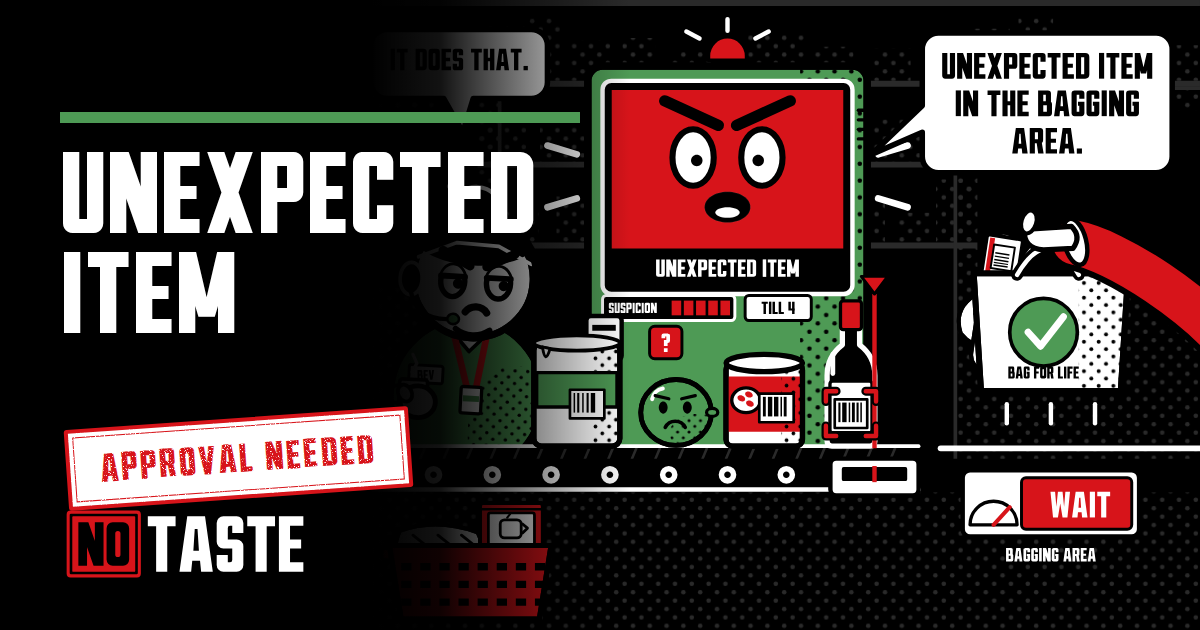
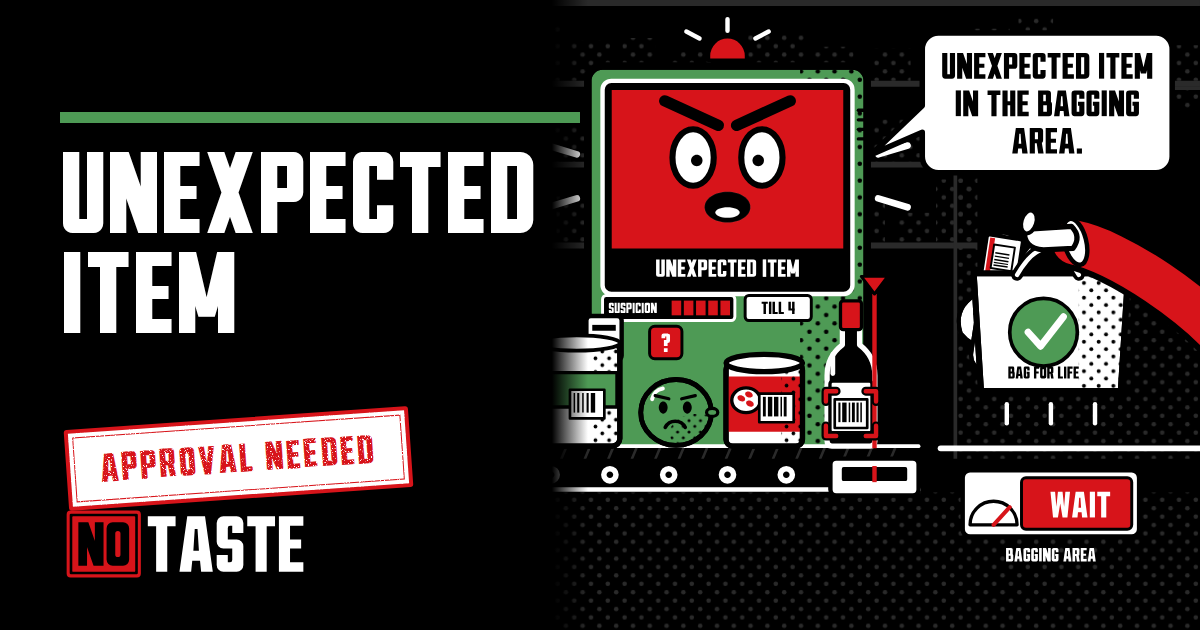
Unexpected Item: perfect streaks, readable bubbles, a share image without Bev
The streak is now perfect scans in a row, and a perfect scan is worth 200,
so the score follows how well you scan rather than how few you miss. Scans
that aren't perfect make the machine a little more suspicious. Scan like
you mean it pays a third more for perfect scans.

Every line anyone says fits two lines on a 375px phone (and on a 320px one,
where a long line of Dennis's comes in over the blank side of his screen).
The bag's arrow no longer rises with the bag onto what's in your hand, and
its words match how you play. The till's name plate sits before the red
line. The share image drops Bev and her bubble from under the headline.
DESIGN.md: the false alarm, the ladder, the ways of shopping, and the
layout rules that changed.

Claude-Session: https://claude.ai/code/session_01Phqp5Sct2fBuhmAQCcMgAG

Changed region(s): [[0.37, 0.1206, 0.5242, 0.9952], [0.37, 0.0302, 0.4625, 0.181], [0.37, 0.3619, 0.4008, 0.3921]]

diff --git a/public/games/unexpected-item/unexpected-item.js b/public/games/unexpected-item/unexpected-item.js
@@ -66,13 +66,13 @@
 // does, like letting an item go round again, changes what the next shop
 // deals. What the machine and Bev say is left to chance.
 //
-// SCORING. Each item scanned: 100, plus 150 for a perfect scan, plus a streak
-// bonus (10 a scan in a row, up to 200; a miss, something going round again,
-// wrong fruit or an accusation starts it again, and it carries from shop to
-// shop). Bagging: 10. Fruit picked right: 150, plus up to 100 for being
-// quick. Each shop paid for: 20 a second left on the clock, and 500 for a
-// clean record (nobody accused you). If the shop shuts before you've paid,
-// the run is over.
+// SCORING. Each item scanned: 100, plus 200 for a perfect scan, plus a streak
+// bonus for perfect scans in a row (15 for each one before it, up to 300;
+// anything less than perfect, a miss, something going round again, wrong
+// fruit or an accusation starts it again, and it carries from shop to shop).
+// Bagging: 10. Fruit picked right: 150, plus up to 100 for being quick. Each
+// shop paid for: 20 a second left on the clock, and 500 for a clean record
+// (nobody accused you). If the shop shuts before you've paid, the run is over.
 //
 // THE LADDER (DESIGN.md, section 6). Approved: every shop paid for, at least
 // 17,500 points, and accused no more than once (the basket's false alarm).
@@ -113,7 +113,11 @@
   var SUS_MISS = 12, SUS_ROUND = 8, SUS_WRONG = 24, SUS_GUESS = 16;
   var SUS_DRAIN = 0.5;        // a second, in the first three shops: it doesn't forget quickly
   var SUS_EDGE = 1.6;         // a second, up, on Christmas Eve
-  var SUS_PERFECT = 9, SUS_GOOD = 2, SUS_AFTER = 25;
+  var SUS_PERFECT = 8;        // down, for a perfect scan
+  var SUS_GOOD = 2;           // up, for one that wasn't: it saw you fumble
+  var SUS_AFTER = 25;         // where it's left after an accusation is sorted
+  var PERFECT_PTS = 200;      // on top of 100 for any scan
+  var STREAK_PTS = 15, STREAK_CAP = 20;   // a perfect scan in a row: 15 more for each before it, up to 20
   var ALARM_FROM = 20;        // suspicion over this, and the scale saying OK may set it off...
   var ALARM_MAX = 0.65;       // ...this likely when it's full
   var FIRST_ALARM = 2;        // the basket's false alarm comes after this many things are bagged
@@ -147,7 +151,7 @@
       sets: [], fruit: 0, age: [], heavy: [],
       brief: "Scan each item as its barcode crosses the red line. Then bag it, but only when the scale says OK.",
       clear: "One basket. The machine has opened a file on you.",
-      hello: "Welcome. Please scan your first item. I'm watching." },
+      hello: "Scan your first item. I'm watching." },
     { name: "A trolley", count: 10, belt: 12.5, gap: [12, 22], time: 52, walk: 5, pool: "trolley",
       sets: ["lime", "onion", "apple", "potato", "banana"], fruit: 3, age: [], heavy: [],
       brief: "Loose fruit has no barcode. The belt stops and the till asks what it is: pick the matching picture before it guesses.",
@@ -162,7 +166,7 @@
       sets: ["sprout", "potato", "apple"], fruit: 2, age: ["crackers", "candle"], heavy: ["turkey"],
       brief: "The machine is on edge: its suspicion rises on its own, and only perfect scans calm it down. The shop shuts early.",
       clear: "",
-      hello: "Merry Christmas. Please scan your first item. Slowly." }
+      hello: "Merry Christmas. Scan it slowly." }
   ];
 
   // Ways of shopping, picked between stages. Something good, something bad,
@@ -176,8 +180,8 @@
       apply: function (m) { m.walk *= 0.45; m.chat += 1.6; } },
     { id: "glasses", label: "Wear your reading glasses", detail: "The machine waits twice as long before guessing your fruit. The belt runs a bit faster.",
       apply: function (m) { m.lookup *= 2; m.belt *= 1.1; } },
-    { id: "mean", label: "Scan like you mean it", detail: "Perfect scans score half as much again. Anything less than perfect looks suspicious.",
-      apply: function (m) { m.perfect *= 1.5; m.goodSus += 8; } },
+    { id: "mean", label: "Scan like you mean it", detail: "Perfect scans score a third more. Anything less than perfect looks very suspicious.",
+      apply: function (m) { m.perfect *= 4 / 3; m.goodSus += 6; } },
     { id: "quiet", label: "Come back when it's quieter", detail: "Fifteen more seconds before the shop shuts, though they don't score. Bev's on her break, so she takes longer.",
       apply: function (m) { m.time += 15; m.walk *= 1.4; } },
     { id: "wave", label: "Wave at the camera", detail: "Suspicion wears off three times as fast. Every item scores a tenth less.",
@@ -194,31 +198,31 @@
   // ---------------------------------------------------------------------------
   var SAY = {
     scanned: ["Thank you.", "Noted.", "Item accepted. You are pending.", "Good. Suspiciously good.", "Beep. That's me being polite."],
-    streak: ["Five in a row. What are you hiding.", "Very smooth. Too smooth.", "Nobody's this good at scanning. Nobody honest."],
+    streak: ["Five in a row. What are you hiding.", "Very smooth. Too smooth.", "Nobody scans like that. Nobody honest."],
     missed: ["I didn't see a barcode.", "That was the belt.", "Please scan the item, not the air.", "Scanning nothing is suspicious.", "Was that a barcode. No."],
     fruitMiss: ["Fruit and veg have no barcode. Wait.", "No barcode on that. Hold on."],
-    holding: ["Please place the item in the bagging area.", "Bag that one first.", "One thing at a time. I'm watching both."],
+    holding: ["Place the item in the bagging area.", "Bag that one first.", "One thing at a time. I'm watching both."],
     round: ["That one's going round again.", "Have you scanned your item.", "It'll be back. They always come back."],
     accuse: "Unexpected item in the bagging area.",
-    accuseWatch: ["I've seen enough. Unexpected item.", "I've been watching you. Unexpected item."],
-    lift: "Please remove the item from the bagging area.",
-    back: "Please replace the item in the bagging area.",
+    accuseWatch: ["I've seen enough. Unexpected item.", "I've been watching. Unexpected item."],
+    lift: "Remove the item from the bagging area.",
+    back: "Replace the item in the bagging area.",
     again: ["Unexpected item in the bagging area.", "No. Unexpected item. Again.", "Still unexpected."],
     sorry: ["Sorry. Item: expected.", "My mistake. I'll remember it.", "Apologies. It won't happen again. It will.", "That was my fault. Don't tell Bev."],
     coming: ["Assistance is on its way.", "Assistance is on its way. Slowly.", "Help is coming. Eventually."],
     arrive: ["She's here. You're in trouble.", "Bev. Search them."],
     age: { wine: "Cooking wine. For cooking, is it.", scissors: "Scissors. Approval needed.", candle: "A large candle. Why so large.",
-           crackers: "Crackers. They go bang. Approval needed." },
+           crackers: "Crackers. They go bang." },
     right: ["{name}. If you say so.", "{name}. I'll allow it.", "{name}. I was going to say that."],
-    wrong: ["Noted. Charged as {wrong}.", "{name}. If you insist. I'll be checking."],
+    wrong: ["Noted. Charged as {wrong}.", "{name}. If you insist."],
     guessed: "I've gone with {wrong}.",
     heavy: ["Heavy item. Please wait.", "Heavy item. Please wait. Longer."],
     turkey: "Turkey detected. Please wait.",
     high: ["I'm watching you.", "Smile. You're on camera.", "I've seen this before.", "Hmm."],
-    bagFirst: "Bag your item first. I'll wait. I'm good at waiting.",
-    waitApproval: "Waiting for approval. Bev's on her way. Probably.",
-    tenLeft: "The shop shuts in ten seconds. I'll lock you in.",
-    paid: ["Thank you for shopping. Please take your receipt.", "Payment accepted. You may go. I'll be watching."],
+    bagFirst: "Bag your item first. I'm good at waiting.",
+    waitApproval: "Bev's on her way. Probably.",
+    tenLeft: "Ten seconds. Then I lock you in.",
+    paid: ["Thank you for shopping. Take your receipt.", "Paid. You may go. I'll be watching."],
     shut: "We're closed. You're staying."
   };
   var BEV = {
@@ -340,6 +344,11 @@
     // Dennis talks from the speaker on his right. On a narrow screen his
     // bubble starts at the edge of his screen, so two lines are enough.
     L.dennis = { x: L.narrow ? L.kx + L.kW / 2 - 2.6 : L.kx + L.kW / 2 + 0.5, y: L.scrT + 5 };
+    // the face's size (as drawScreen draws it), and how far into the screen a
+    // long line's bubble may come on a very small screen without covering it
+    var sh = L.scrB - L.scrT, strip = Math.max(Math.min(5.2, sh * 0.22), L.tmin + 1);
+    L.faceR = Math.min((L.kW - 6) * 0.42, (sh - strip) * 0.55);
+    L.dennisIn = L.kx + L.faceR * 0.85 + 1.2;
   }
 
   // where each of the Christmas queue stands, and how big
@@ -766,14 +775,15 @@
     var perfect = Math.abs(barCentre(it) - L.sx) <= PERFECT;
     belt.splice(belt.indexOf(it), 1);
     hand = { item: it, t: 0, from: { x: it.x, y: L.belt } };
-    streak++;
+    // the streak is perfect scans in a row
+    streak = perfect ? streak + 1 : 0;
     run.scanned++;
     learned.scan++;
-    var pts = 100 + (perfect ? 150 * mods.perfect : 0) + 10 * Math.min(streak - 1, 20);
-    pts = Math.round(pts * mods.points / 10) * 10;
-    addScore(pts);
+    var bonus = perfect ? PERFECT_PTS * mods.perfect : 0, run1 = perfect ? STREAK_PTS * Math.min(streak - 1, STREAK_CAP) : 0;
+    var pts = Math.round((100 + bonus + run1) * mods.points / 10) * 10;
+    addScore(pts, "scan", (100 + bonus) * mods.points, run1 * mods.points);
     if (perfect) { run.perfect++; st.perfect++; sfx.perfect(); sus -= SUS_PERFECT; }
-    else { sfx.beep(); sus += mods.goodSus - SUS_GOOD; }
+    else { sfx.beep(); sus += SUS_GOOD + mods.goodSus; }
     sus = Math.max(0, sus);
     float(L.sx, L.belt + 11, (perfect ? "Perfect " : "") + "+" + pts, perfect ? "perfect" : "good");
     if (!shell.reduceMotion) fx.push({ kind: "flash", t: 0, life: 0.25 });
@@ -791,9 +801,15 @@
     }
   }
 
-  function addScore(pts) {
+  // part: what it was for (?debug keeps a tally, to tune the scoring by)
+  function addScore(pts, part, a, b) {
     run.score += pts;
     st.score += pts;
+    if (DEBUG) {
+      var p = run.parts || (run.parts = {});
+      if (part === "scan") { p.scan = (p.scan || 0) + a; p.streak = (p.streak || 0) + b; }
+      else p[part] = (p[part] || 0) + pts;
+    }
   }
 
   function float(x, y, text, kind) {
@@ -822,7 +838,7 @@
     bagGrace = 0.22;
     st.done++;
     learned.bag++;
-    addScore(10);
+    addScore(10, "bag");
     if (it.heavy) {
       sfx.thud();
       if (!shell.reduceMotion) shake = 0.5;
@@ -953,9 +969,8 @@
     if (right) {
       var quick = Math.max(0, 1 - look.t / look.limit);
       var pts = Math.round((150 + 100 * quick) * mods.points / 10) * 10;
-      addScore(pts);
+      addScore(pts, "fruit");
       run.fruitRight++;
-      streak++;
       sus = Math.max(0, sus - 5);
       sfx.right();
       float(L.sx, L.belt - 17, "+" + pts, "perfect");
@@ -1110,7 +1125,8 @@
     // the extra seconds from coming back when it's quieter don't score
     var scored = Math.max(0, Math.ceil(timeLeft - mods.time));
     var bonus = scored * TIME_BONUS + (st.fault ? 0 : CLEAN_BONUS);
-    addScore(bonus);
+    addScore(scored * TIME_BONUS, "time");
+    addScore(st.fault ? 0 : CLEAN_BONUS, "clean");
     st.bonus = bonus;
     st.secs = secs;
     if (DEBUG) dlog.push("paid " + (stage + 1) + ": " + timeLeft.toFixed(1) + "s left, accused " + st.accused + ", fault " + st.fault + ", sus " + Math.round(sus));
@@ -2078,17 +2094,28 @@
 
   // A speech bubble: paper, a thick ink outline, a tail to the speaker, two
   // short lines of capitals at most (DESIGN.md, section 7)
-  function drawBubble(c, b, placed) {
-    if (b.who === "bev" && bev.state === "off") return;
-    if (look && b.who === "dennis") return;
-    var a = anchor(b.who);
+  // how a bubble's words fall into lines, and its sizes
+  function bubbleText(c, who, text, inset) {
+    var a = anchor(who);
+    // on a very small screen a long line of Dennis's comes in over the blank
+    // side of his screen, so it still fits in two lines
+    if (inset) a.x = L.dennisIn * U;
     var size = clamp(U * 3.3, 12, 20);
     c.font = size + "px " + T.display;
-    var pad = size * (L.narrow ? 0.42 : 0.5), lh = size * 1.02;
+    var pad = size * (L.narrow ? 0.42 : 0.5);
     var gap = L.narrow ? 4 : size * 0.7;
     var maxW = a.side === "right" ? Math.min(W - a.x - gap - (L.narrow ? 4 : 14), size * 15) : Math.min(size * 13, W * (L.narrow ? 0.62 : 0.46));
     maxW = Math.max(maxW, size * 6);
-    var lines = wrapAll(c, b.text.toUpperCase(), maxW - pad * 2);
+    var bt = { a: a, size: size, pad: pad, gap: gap, lines: wrapAll(c, text.toUpperCase(), maxW - pad * 2) };
+    if (bt.lines.length > 2 && who === "dennis" && L.narrow && !inset) return bubbleText(c, who, text, true);
+    return bt;
+  }
+
+  function drawBubble(c, b, placed) {
+    if (b.who === "bev" && bev.state === "off") return;
+    if (look && b.who === "dennis") return;
+    var bt = bubbleText(c, b.who, b.text);
+    var a = bt.a, size = bt.size, pad = bt.pad, gap = bt.gap, lines = bt.lines, lh = size * 1.02;
     var tw = 0;
     lines.forEach(function (l) { tw = Math.max(tw, c.measureText(l).width); });
     var bw = tw + pad * 2, bh = lines.length * lh + pad * 1.2;
@@ -2414,6 +2441,21 @@
       dealt: function () { return dlog.slice(); },
       idle: function (secs) { if (auto) auto.cool = secs; },
       bagAt: function () { return { x: L.bagX * U, y: (L.belt - L.bagH / 2) * U }; },
+      // every line anyone says that would take more than two lines on this screen
+      longLines: function () {
+        var out = [], names = Object.keys(S.FRUIT).map(function (k) { return S.FRUIT[k].name; });
+        function each(v, f) { if (typeof v === "string") f(v); else if (Array.isArray(v)) v.forEach(function (x) { each(x, f); }); else if (v) Object.keys(v).forEach(function (k) { each(v[k], f); }); }
+        function check(who, text) {
+          var variants = /\{name\}|\{wrong\}/.test(text) ? names.map(function (n) { return fill(text, { name: n, wrong: n }); }) : [text.replace("{veg}", "an apple")];
+          variants.forEach(function (t) { var n = bubbleText(ctx, who, t).lines.length; if (n > 2) out.push(who + " (" + n + "): " + t); });
+        }
+        each(SAY, function (t) { check("dennis", t); });
+        STAGES.forEach(function (s) { check("dennis", s.hello); });
+        check("dennis", "Sorry. That was your receipt.");
+        each(BEV, function (t) { check("bev", t); });
+        QUEUE.forEach(function (t) { check("q0", t); check("q1", t); });
+        return out;
+      },
       // everything a test needs to play by the rules, in one snapshot
       peek: function () {
         return {

diff --git a/public/games/unexpected-item/index.html b/public/games/unexpected-item/index.html
@@ -87,7 +87,7 @@
         <!-- EDIT: two or three short lines -->
         <ul class="how">
           <li>Scan each item (Space, a click, or the Scan button) as its barcode crosses the red line. Dead centre is a perfect scan. Miss it and it goes round again.</li>
-          <li>Bag it (B, a click on the bag, or the Bag button), but only when the scale says OK. Touch the bag while it says Wait and there's an unexpected item in the bagging area: lift the bag and put it back, or wait for Bev.</li>
+          <li>Bag it (B, a click on the bag, or the Bag button), but only when the scale says OK. The machine will find an unexpected item in the bagging area anyway, more often the more suspicious it gets: lift the bag and put it back, or wait for Bev. Perfect scans calm it down.</li>
           <li>Loose fruit has no barcode, so pick the right picture (1 to 4, or tap it) before the machine guesses. Scissors, candles and cooking wine need Bev's approval. Today's run puts the same shopping on the belt for everyone.</li>
         </ul>
         <div class="share">

diff --git a/DESIGN.md b/DESIGN.md
@@ -295,25 +295,34 @@ A self-checkout. Four shops (a basket, a trolley, the big shop, Christmas Eve), 
 **Characters**
 - **Till 4** (Bev calls it Dennis). A checkout-green kiosk with a thick ink outline and halftone down its right side, a paper screen in a black bezel, a lamp on top and a speaker grille on the right, where its speech bubbles come from. Its face is drawn on the screen in ink: oval eyes with small pupils that follow the next barcode, furious eyebrows, a frown. No chin and no body: it's a machine. The face is its suspicion meter: calm, watching (one brow up, one eye narrowed), angry (both eyes narrowed), alarm (the screen flashes red, eyes wide, mouth open), sorry (brows up, small mouth), puzzled (for fruit). A strip along the bottom of the screen always says what it wants right now ("Scan your item", "Please wait", "Remove the item"), and a five-light gauge under the screen spells out the suspicion. It wears a Santa hat on Christmas Eve.
 - **Bev**, the one assistant for every till. A house cut-out cartoon, seen from the waist up behind the counter: a green polo, a red lanyard with a paper card, a name badge, a headset with a little green microphone, scraped-back hair and a bun with a pencil through it (the bun is how you know her from behind). Heavy lids, weary-furious brows, a mug of tea with steam. She walks over slowly, swipes her card with her eyes shut and her head turned away ("without looking"), and leaves quickly. She turns back if you fix it yourself. Her conviction: the machines are her colleagues, and Dennis is the worst of them ("Dennis thinks everyone's a thief. Even me."). She talks about the machine, never about you.
-- **The queue**, Christmas Eve only: two cut-out shoppers behind you, one in a Santa hat and a red coat, one in a green bobble hat with a moustache. They look at you and tut in the house register ("Scan it, you lemon.", "It's a sprout, not a bomb."), or at Dennis.
+- **The queue**, Christmas Eve only: two cut-out shoppers behind you, one in a Santa hat and a red coat, one in a green bobble hat with a moustache. They look at you and tut in the house register ("Scan it, you lemon.", "It's a sprout, not a bomb.", always naming something loose that's really on your belt), or at Dennis.
 - **You**: a paper mitten in a red sleeve, coming in from the right. Nothing else.
+- On a narrow screen Bev and the queue are drawn smaller and further in, so nobody stands half off the edge.
 
 **The shopping** is drawn in the four inks with a paper barcode patch on each item, cached as bitmaps (`sprites.js`). Loose fruit has no barcode and comes in sets of four lookalikes, some of them jokes: a sad lime, an apple with a bite out of it, a stone, a nervous sprout. The bitten apple and the stone are only ever wrong answers: what's on the scale is always something a shop would sell you. Invented, never branded.
 
 **One rule for each action.** Scan works only while a barcode is on the red line; red brackets (as in Thonglets) mark a barcode while it can be scanned. Bag works only while the scale says OK; touching the bag while it says Wait is always an unexpected item. The exceptions are said out loud: loose fruit stops at the line and the till asks, and age checks need Bev.
 
+**The false alarm.** The joke is in the rules: the machine accuses people who have done nothing wrong. In the basket it always does, once, after the second thing has gone in and the scale has said OK, so everyone meets the accusation and learns the ritual while it's calm. That one is the machine's own mistake and costs nothing but time. After that its suspicion decides: every time the scale says OK it may call an unexpected item anyway, never while no more than one light is lit, likelier with every light after that, and on the spot when all five are. Suspicion lingers. Mistimed scans, things going round again and wrong fruit raise it, perfect scans are what bring it down, and on Christmas Eve it rises by itself. Every accusation stops the till until it's fixed, breaks the streak and costs that shop's clean bonus.
+
 **The ritual.** Every accusation is fixed the same way: lift the bag, put it back, each time the scale says OK. Rush it and the machine accuses you again. Or wait for Bev.
 
-**Stamp words and callouts**: Unexpected item, Item: expected, Approval needed, Approved. Didn't look, Sorted. Didn't look, Guessed: lemon (whatever it guessed), Charged as lemon, Lime: confirmed, Round again, Heavy item, Five in a row, Twelve in a row. Suspicious, Paid, Paid. Reluctantly, Shop: shut. The game's stamp is Approval needed.
+**The ladder.** Approved: every shop paid for, at least 17,500 points, and accused no more than the once everyone is. Pending review: every shop paid for. Not approved: a later shop shut on you. Rejected: the basket beat you. A shop's own stamp, between shops, goes by the accusations you're charged with.
+
+**Ways of shopping.** Each one helps and costs, and none is best for everyone: a loyalty card scores a tenth more but every shop starts with the machine suspicious; your own bags settle the scale twice as fast but each thing you put in looks suspicious; waving at the camera calms it, for fewer points; holding it very still widens the red line but speeds the belt and leaves perfect as narrow as ever; coming back when it's quieter gives seconds that don't score.
+
+**Stamp words and callouts**: Unexpected item, Item: expected, Approval needed, Approved. Didn't look, Sorted. Didn't look, Guessed: lemon (whatever it guessed), Charged as lemon, Lime: confirmed, Round again, Heavy item, Five in a row, Twelve in a row. Suspicious, Paid, Paid. Reluctantly. The game's stamp is Approval needed.
 
 **Only this game**
-- Callouts land just under the till's screen, not across it (`unexpected-item.css`), because the face is the joke. The arrow that points at the bag comes in from the side with its word underneath, so it stays clear of the callouts and the till's voice.
+- Callouts land under the belt (`unexpected-item.css`, placed by the game for each screen shape), clear of the till's face, its instruction strip and the scale's display, which are what you're reading when one lands. A look-up result's stamp waits until the card has gone. The arrow that points at the bag comes in from the side with its word underneath, and doesn't rise with the bag, so it never lands on what's in your hand. Its words match how you're playing ("Tap Bag", "Press B", "Click it").
+- The belt waits for the stage's notice to go (it covers the belt on a phone), and the shop's clock starts when the belt does.
+- Canvas text is never under 12px. A label that can't be that big on a phone is left out there (the till's name plate, the print on the bag, the Round again sign, the Bagging area label beside the Scan button), and the look-up card fades in rather than growing, so its words never shrink. On a narrow screen Dennis's bubble starts at the edge of his screen so his lines fit in two.
 - Today's run deals each shop from its own seeded streams (its list, the gaps on the belt, the order of the fruit pictures, the ways of shopping offered after it), all drawn from `shell.random` at the start. An item going round again or a different choice never changes what the next shop deals.
-- The look-up screen is a paper card with the game's colour along the top: the question ("Lime, lemon, lime or lime."), a clock, what's on the scale in a dashed frame, and four numbered pictures (a row of four, or two by two on phones). The machine's guesses are always wrong.
+- The look-up screen is a paper card with the game's colour along the top: the question ("Lime, lemon, lime or lime."), a clock, what's on the scale in a dashed frame, and four numbered pictures (a row of four, or two by two on phones). With a mouse or keys it sits under the belt, so you can see the till looking puzzled; on a touch screen it sits over the top, clear of the buttons. The machine's guesses are always wrong.
 - The till's voice, Bev's and the queue's are blips, one a syllable, so "Unexpected item in the bagging area" has its real rhythm.
 - The scale's display (OK in green, Wait in red and flashing, plus a needle) is also the Bag button's cooldown on touch screens.
 - The receipt grows out of the till with everything you bag, and the basket or trolley on the floor empties as you go.
-- When the shop shuts, paper shutters come down with a red edge and a red Closed sign hung on them.
+- When the shop shuts, paper shutters come down out of an ink box along the top (so the HUD stays on black), with a red edge and a red Closed sign hung on them. No stamp: the sign is the moment.
 
 ### Reply All
 
